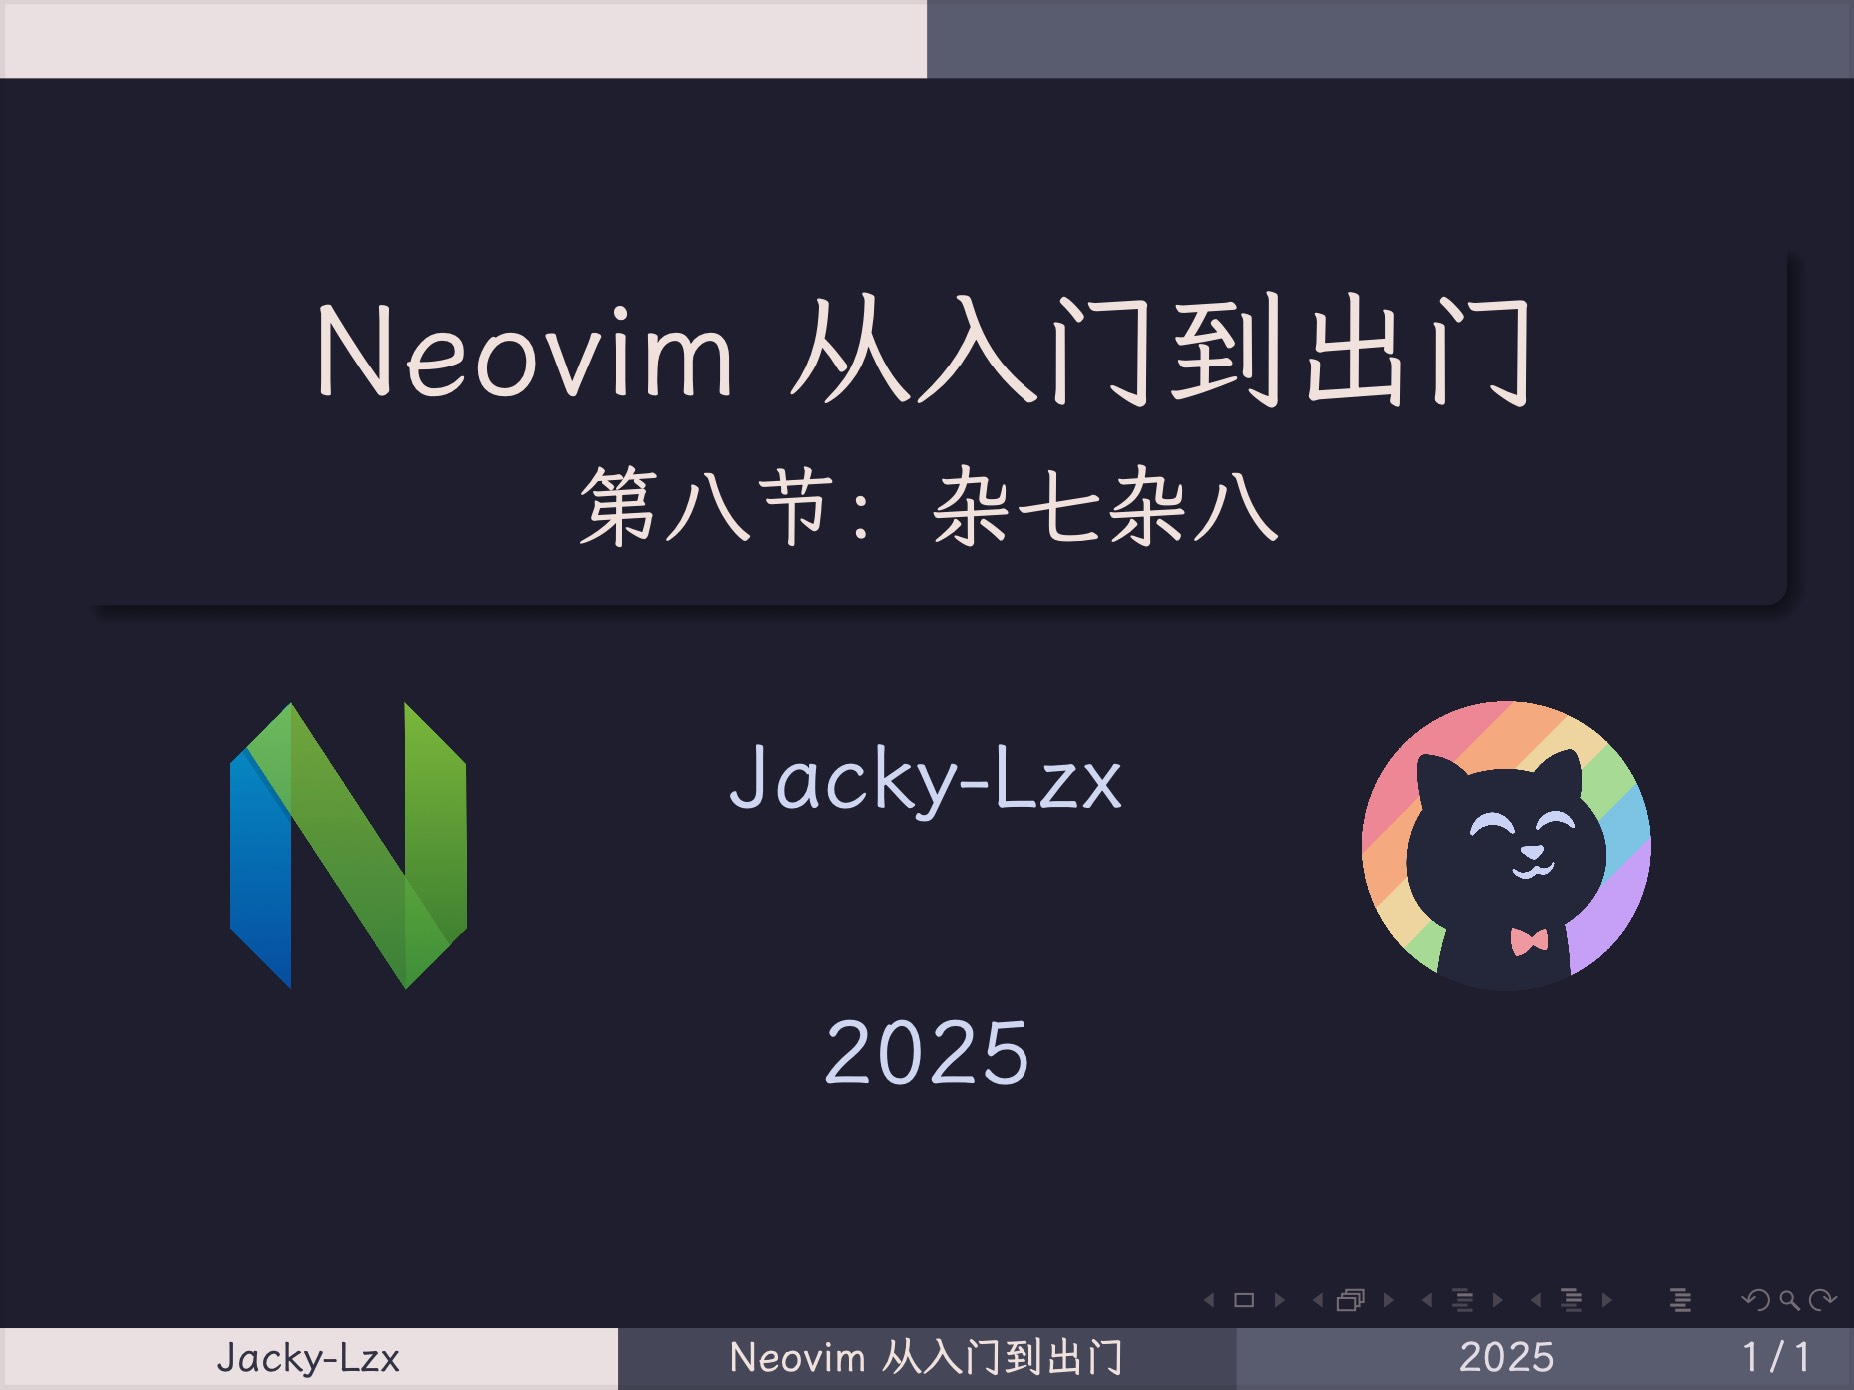
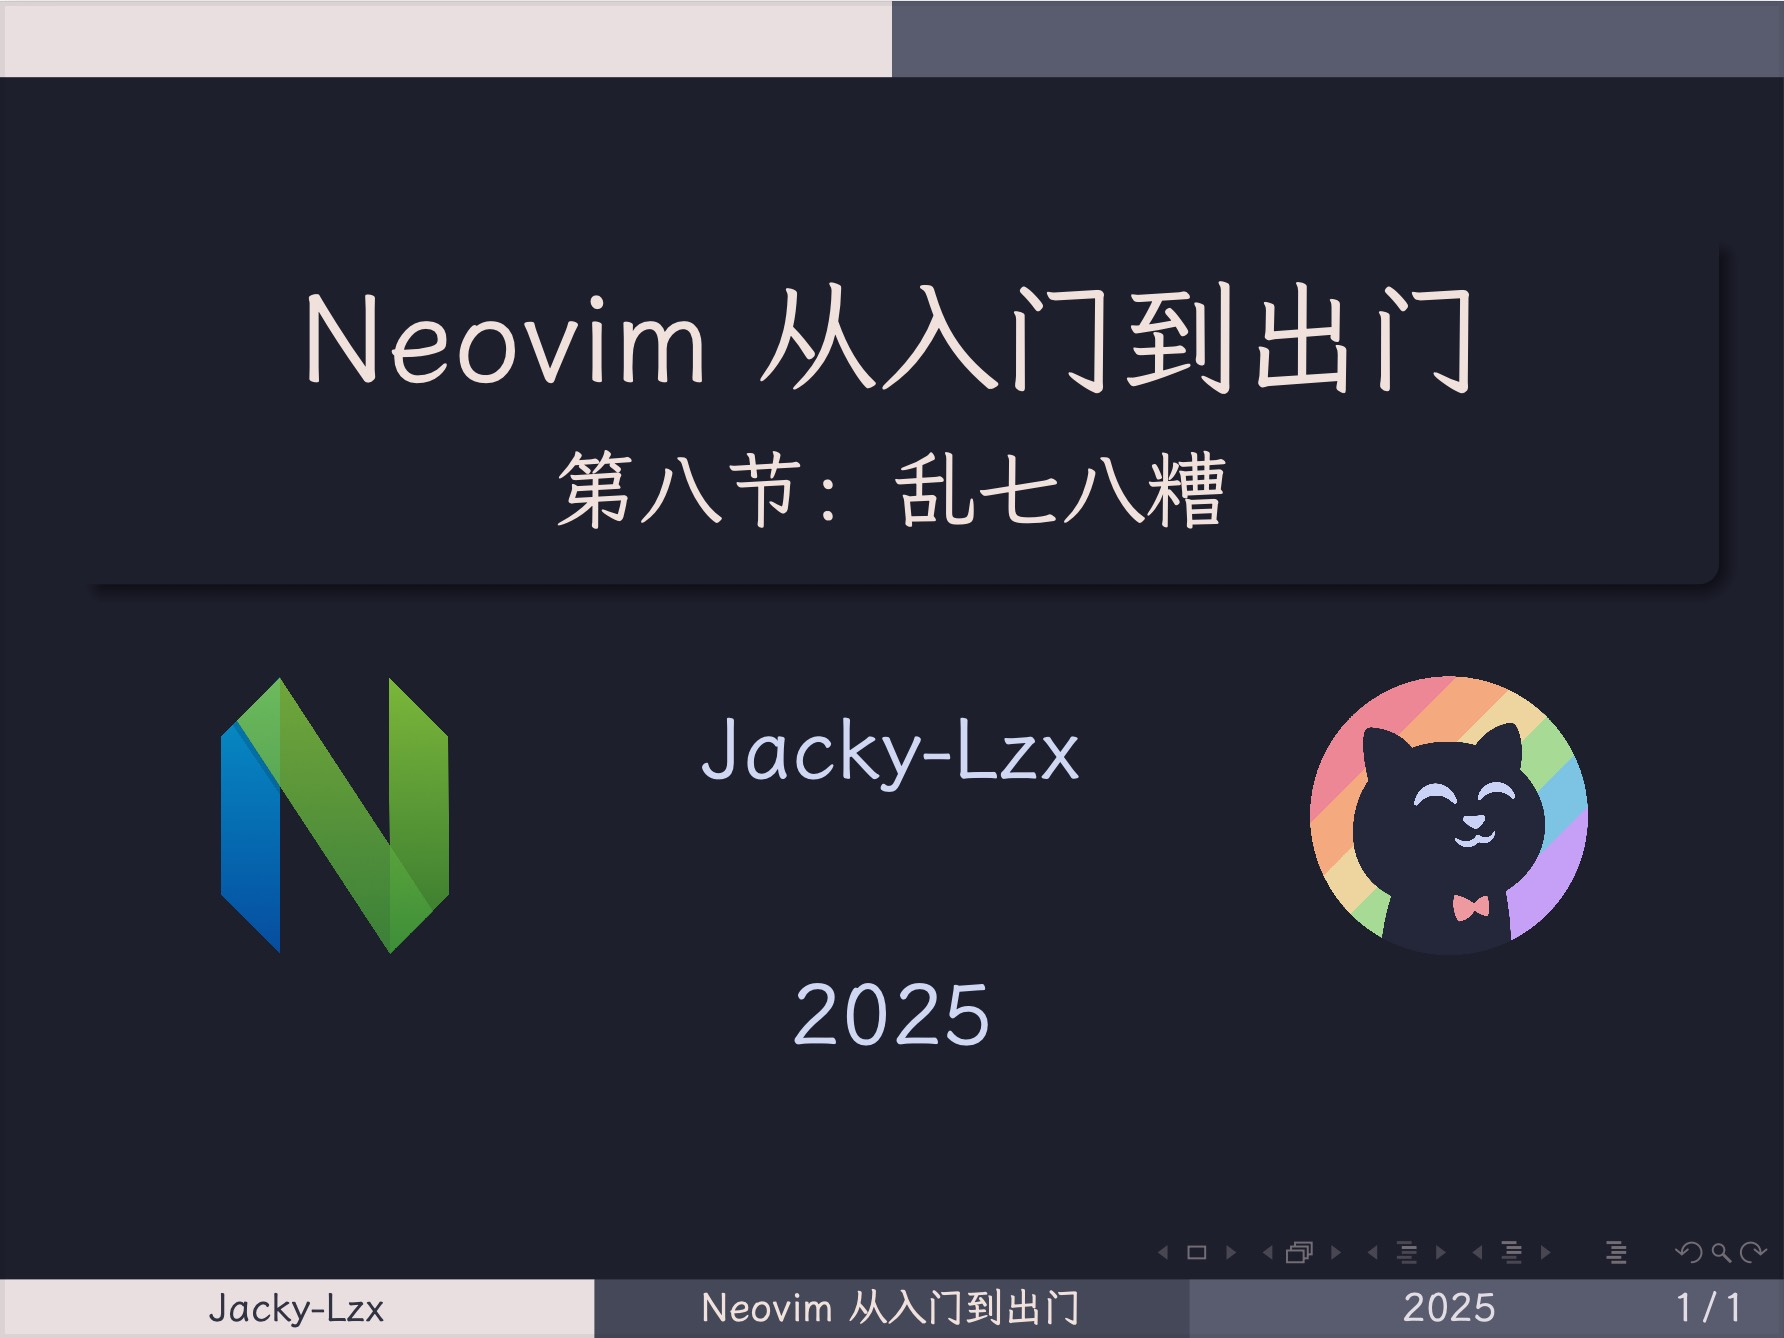
fix(chapter_8): fixed the chapter name in the cover page.

diff --git a/Chapter_8_Mess/Chapter_8_Cover_Page.tex b/Chapter_8_Mess/Chapter_8_Cover_Page.tex
@@ -97,7 +97,7 @@
 % }
 
 \title{Neovim从入门到出门}
-\subtitle{第八节：杂七杂八}
+\subtitle{第八节：乱七八糟}
 \author{Jacky-Lzx}
 \date{2025}
 
